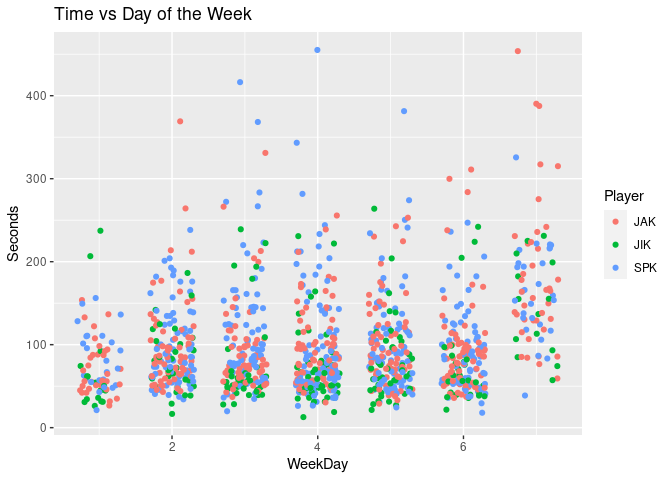
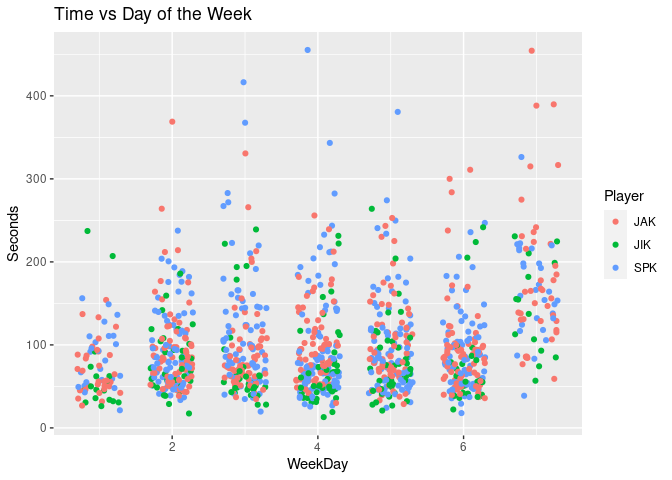
Updated data

diff --git a/analysis/nyt_mini_crossword.md b/analysis/nyt_mini_crossword.md
@@ -1,7 +1,7 @@
 ---
 title: "New York Time Mini Crossword"
 author: "Stephen Kaluzny"
-date: "27 September, 2021"
+date: "30 September, 2021"
 output:
   html_document:
     keep_md: true
@@ -172,7 +172,7 @@ d %>%
 
 ## Summary Statistics
 
-Current data set has 1153 observations.
+Current data set has 1161 observations.
 
 
 ```r
@@ -187,10 +187,10 @@ d %>% group_by(Player) %>%
 ##   <chr>  <dbl>  <dbl> <dbl> <dbl> <int>
 ## 1 SKK     51       47    21    89     4
 ## 2 AKK     55       55    55    55     1
-## 3 JIK     79.8     62    13   264   217
-## 4 JAK    103.      86    27   454   409
+## 3 JIK     79.6     62    13   264   219
+## 4 JAK    103.      86    27   454   411
 ## 5 BBK    117.     102    42   350    56
-## 6 SPK     NA       NA    NA    NA   466
+## 6 SPK     NA       NA    NA    NA   470
 ```
 
 ## Subset the Data
@@ -205,7 +205,7 @@ d <- d %>%
   filter(Player %in% c("SPK", "JAK", "JIK"))
 ```
 
-Now have 1092 observations.
+Now have 1100 observations.
 
 ## Plots
 
@@ -345,15 +345,15 @@ sessionInfo()
 ## [1] stats     graphics  grDevices utils     datasets  methods   base     
 ## 
 ## other attached packages:
-## [1] ggplot2_3.3.5 dplyr_1.0.7   tidyr_1.1.3   assertr_2.8  
+## [1] ggplot2_3.3.5 dplyr_1.0.7   tidyr_1.1.4   assertr_2.8  
 ## 
 ## loaded via a namespace (and not attached):
 ##  [1] Rcpp_1.0.7       highr_0.9        pillar_1.6.3     bslib_0.3.0     
 ##  [5] compiler_4.1.1   jquerylib_0.1.4  tools_4.1.1      digest_0.6.28   
 ##  [9] lubridate_1.7.10 jsonlite_1.7.2   evaluate_0.14    lifecycle_1.0.1 
-## [13] tibble_3.1.4     gtable_0.3.0     pkgconfig_2.0.3  rlang_0.4.11    
+## [13] tibble_3.1.5     gtable_0.3.0     pkgconfig_2.0.3  rlang_0.4.11    
 ## [17] cli_3.0.1        DBI_1.1.1        yaml_2.2.1       xfun_0.26       
-## [21] fastmap_1.1.0    withr_2.4.2      stringr_1.4.0    knitr_1.34      
+## [21] fastmap_1.1.0    withr_2.4.2      stringr_1.4.0    knitr_1.36      
 ## [25] hms_1.1.1        generics_0.1.0   vctrs_0.3.8      sass_0.4.0      
 ## [29] rprojroot_2.0.2  grid_4.1.1       tidyselect_1.1.1 here_1.0.1      
 ## [33] glue_1.4.2       R6_2.5.1         fansi_0.5.0      rmarkdown_2.11  
